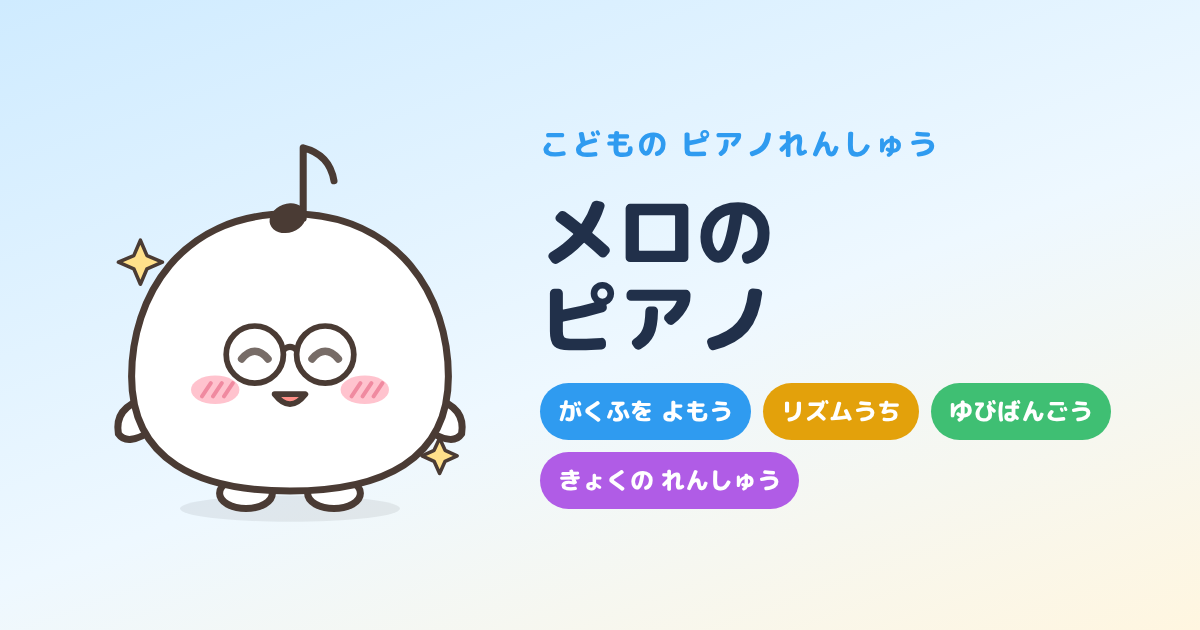
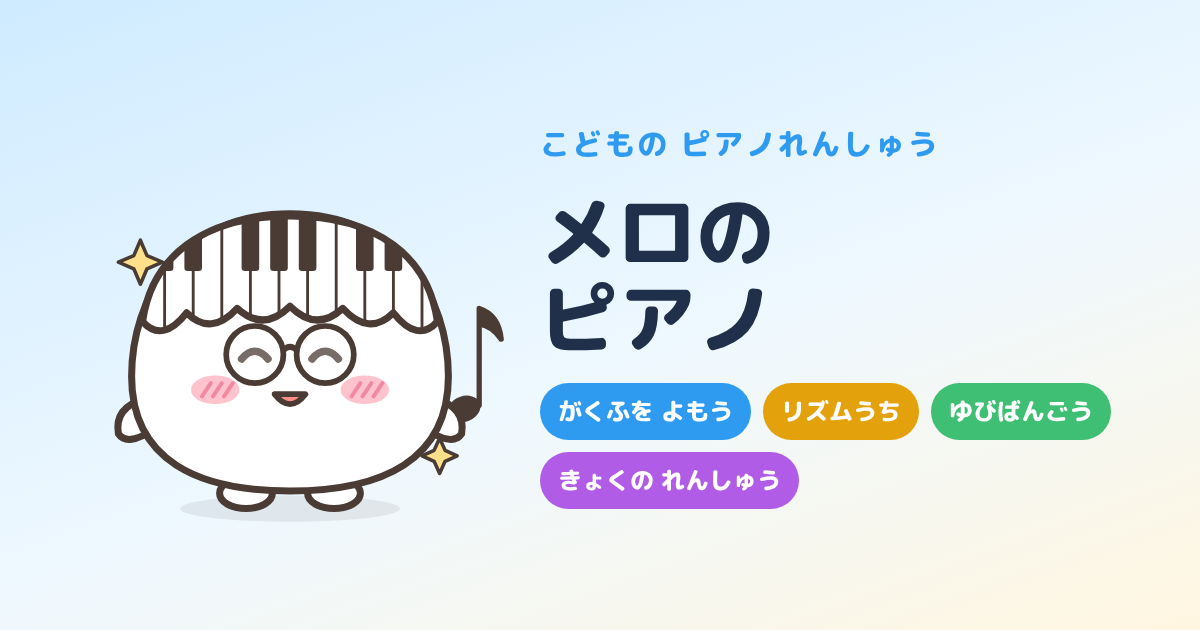
Melo: piano-keyboard hair and an eighth note held in the hand instead of the note on the head
Claude-Session: https://claude.ai/code/session_01NtSss11NbYm3PZo9HB4fJ5

Changed region(s): [[0.1233, 0.2111, 0.4317, 0.6635]]

diff --git a/dist/melo-piano.html b/dist/melo-piano.html
@@ -579,18 +579,22 @@ const MOODCOL={happy:"#FFFFFF",normal:"#FFFFFF",worried:"#FFF0E0",angry:"#FFB9B0
 function mascotSVG(m="normal",eq=P().equip){const c=MOODCOL[m],ln="#4A3B34",gl=eq.glasses&&eq.glasses!=="#21304A"?eq.glasses:ln,w=3.2;
   let g=`<svg viewBox="0 0 200 200" xmlns="http://www.w3.org/2000/svg" role="img" aria-label="メロ"><g stroke-linecap="round" stroke-linejoin="round">`;
   g+=`<ellipse cx="100" cy="188" rx="50" ry="6" fill="#0001" stroke="none"/>`;
+  // eighth note held in the right hand
+  g+=`<path d="M186 141 V97 q9 3 10 14 q-4 -6 -10 -7" fill="${ln}" stroke="${ln}" stroke-width="2.4"/><ellipse cx="179" cy="142" rx="7.6" ry="5.8" transform="rotate(-20 181 142)" fill="${ln}"/>`;
   // little feet and arms
   g+=`<ellipse cx="80" cy="181" rx="12" ry="7" fill="${c}" stroke="${ln}" stroke-width="${w}"/><ellipse cx="120" cy="181" rx="12" ry="7" fill="${c}" stroke="${ln}" stroke-width="${w}"/>`;
   g+=`<path d="M34 138 q-14 4 -12 16 q4 6 16 -2" fill="${c}" stroke="${ln}" stroke-width="${w}"/><path d="M166 138 q14 4 12 16 q-4 6 -16 -2" fill="${c}" stroke="${ln}" stroke-width="${w}"/>`;
   // mochi body
   g+=`<path d="M100 54 C150 54 172 92 172 128 C172 166 142 180 100 180 C58 180 28 166 28 128 C28 92 50 54 100 54 Z" fill="${c}" stroke="${ln}" stroke-width="${w}"/>`;
-  // hats behind the antenna
+  // keyboard hair: white keys, black keys in groups of 2 and 3, scalloped fringe
+  {const hair="M33 103 C37 74 60 55 100 55 C140 55 163 74 167 103 Q158 113 147 99 Q136 110 124 97 Q112 108 100 96 Q88 108 76 97 Q64 110 53 99 Q42 113 33 103 Z";
+   const cid="mh"+Math.random().toString(36).slice(2,8);let keys="";
+   for(let k=1;k<=10;k++){const x=30+k*13;keys+=`<line x1="${x}" x2="${x}" y1="50" y2="118" stroke="${ln}" stroke-width="1.3"/>`;if([1,1,0,1,1,1,0][(k-1)%7])keys+=`<rect x="${x-4}" y="50" width="8" height="${30}" rx="1.5" fill="${ln}" stroke="none"/>`}
+   g+=`<defs><clipPath id="${cid}"><path d="${hair}"/></clipPath></defs><g clip-path="url(#${cid})"><path d="${hair}" fill="#fff" stroke="none"/>${keys}</g><path d="${hair}" fill="none" stroke="${ln}" stroke-width="${w}"/>`}
+  // hats
   if(eq.head==="headphones")g+=`<path d="M34 120 C34 40 166 40 166 120" fill="none" stroke="#8C9BB5" stroke-width="7"/><rect x="20" y="102" width="20" height="32" rx="9" fill="#9CCBF2" stroke="${ln}" stroke-width="2.5"/><rect x="160" y="102" width="20" height="32" rx="9" fill="#9CCBF2" stroke="${ln}" stroke-width="2.5"/>`;
   if(eq.head==="cap")g+=`<path d="M52 82 C58 40 142 40 148 82 Z" fill="#9CCBF2" stroke="${ln}" stroke-width="2.5"/><path d="M122 78 q36 0 48 9 q-28 5 -52 1z" fill="#7DB6E6" stroke="${ln}" stroke-width="2.5"/>`;
   if(eq.head==="crown")g+=`<path d="M68 74 L73 42 L87 58 L100 36 L113 58 L127 42 L132 74 Z" fill="#FFE08A" stroke="${ln}" stroke-width="2.5"/><circle cx="100" cy="62" r="4" fill="#FF9AA8"/>`;
-  // music-note antenna
-  const ay=eq.head==="cap"?-12:eq.head==="crown"?-18:0;
-  g+=`<g transform="translate(0 ${ay})"><path d="M106 56 V24 q12 3 14 15" fill="none" stroke="${ln}" stroke-width="${w}"/><ellipse cx="99" cy="56" rx="8.5" ry="6.5" transform="rotate(-20 99 56)" fill="${ln}"/></g>`;
   if(eq.head==="ribbon")g+=`<path d="M140 68 l-18 -11 v22z M140 68 l18 -11 v22z" fill="#FFC2D6" stroke="${ln}" stroke-width="2.5"/><circle cx="140" cy="68" r="5" fill="#FF9DBB" stroke="${ln}" stroke-width="2"/>`;
   if(eq.head==="flower")g+=`<g transform="translate(62 72)">${[0,72,144,216,288].map(a=>`<circle cx="${(Math.cos(a*Math.PI/180)*8).toFixed(1)}" cy="${(Math.sin(a*Math.PI/180)*8).toFixed(1)}" r="6" fill="#fff" stroke="#E9A3BB" stroke-width="2"/>`).join("")}<circle r="5" fill="#FFE08A"/></g>`;
   // cheeks with little ／／ marks

diff --git a/index.html b/index.html
@@ -580,18 +580,22 @@ const MOODCOL={happy:"#FFFFFF",normal:"#FFFFFF",worried:"#FFF0E0",angry:"#FFB9B0
 function mascotSVG(m="normal",eq=P().equip){const c=MOODCOL[m],ln="#4A3B34",gl=eq.glasses&&eq.glasses!=="#21304A"?eq.glasses:ln,w=3.2;
   let g=`<svg viewBox="0 0 200 200" xmlns="http://www.w3.org/2000/svg" role="img" aria-label="メロ"><g stroke-linecap="round" stroke-linejoin="round">`;
   g+=`<ellipse cx="100" cy="188" rx="50" ry="6" fill="#0001" stroke="none"/>`;
+  // eighth note held in the right hand
+  g+=`<path d="M186 141 V97 q9 3 10 14 q-4 -6 -10 -7" fill="${ln}" stroke="${ln}" stroke-width="2.4"/><ellipse cx="179" cy="142" rx="7.6" ry="5.8" transform="rotate(-20 181 142)" fill="${ln}"/>`;
   // little feet and arms
   g+=`<ellipse cx="80" cy="181" rx="12" ry="7" fill="${c}" stroke="${ln}" stroke-width="${w}"/><ellipse cx="120" cy="181" rx="12" ry="7" fill="${c}" stroke="${ln}" stroke-width="${w}"/>`;
   g+=`<path d="M34 138 q-14 4 -12 16 q4 6 16 -2" fill="${c}" stroke="${ln}" stroke-width="${w}"/><path d="M166 138 q14 4 12 16 q-4 6 -16 -2" fill="${c}" stroke="${ln}" stroke-width="${w}"/>`;
   // mochi body
   g+=`<path d="M100 54 C150 54 172 92 172 128 C172 166 142 180 100 180 C58 180 28 166 28 128 C28 92 50 54 100 54 Z" fill="${c}" stroke="${ln}" stroke-width="${w}"/>`;
-  // hats behind the antenna
+  // keyboard hair: white keys, black keys in groups of 2 and 3, scalloped fringe
+  {const hair="M33 103 C37 74 60 55 100 55 C140 55 163 74 167 103 Q158 113 147 99 Q136 110 124 97 Q112 108 100 96 Q88 108 76 97 Q64 110 53 99 Q42 113 33 103 Z";
+   const cid="mh"+Math.random().toString(36).slice(2,8);let keys="";
+   for(let k=1;k<=10;k++){const x=30+k*13;keys+=`<line x1="${x}" x2="${x}" y1="50" y2="118" stroke="${ln}" stroke-width="1.3"/>`;if([1,1,0,1,1,1,0][(k-1)%7])keys+=`<rect x="${x-4}" y="50" width="8" height="${30}" rx="1.5" fill="${ln}" stroke="none"/>`}
+   g+=`<defs><clipPath id="${cid}"><path d="${hair}"/></clipPath></defs><g clip-path="url(#${cid})"><path d="${hair}" fill="#fff" stroke="none"/>${keys}</g><path d="${hair}" fill="none" stroke="${ln}" stroke-width="${w}"/>`}
+  // hats
   if(eq.head==="headphones")g+=`<path d="M34 120 C34 40 166 40 166 120" fill="none" stroke="#8C9BB5" stroke-width="7"/><rect x="20" y="102" width="20" height="32" rx="9" fill="#9CCBF2" stroke="${ln}" stroke-width="2.5"/><rect x="160" y="102" width="20" height="32" rx="9" fill="#9CCBF2" stroke="${ln}" stroke-width="2.5"/>`;
   if(eq.head==="cap")g+=`<path d="M52 82 C58 40 142 40 148 82 Z" fill="#9CCBF2" stroke="${ln}" stroke-width="2.5"/><path d="M122 78 q36 0 48 9 q-28 5 -52 1z" fill="#7DB6E6" stroke="${ln}" stroke-width="2.5"/>`;
   if(eq.head==="crown")g+=`<path d="M68 74 L73 42 L87 58 L100 36 L113 58 L127 42 L132 74 Z" fill="#FFE08A" stroke="${ln}" stroke-width="2.5"/><circle cx="100" cy="62" r="4" fill="#FF9AA8"/>`;
-  // music-note antenna
-  const ay=eq.head==="cap"?-12:eq.head==="crown"?-18:0;
-  g+=`<g transform="translate(0 ${ay})"><path d="M106 56 V24 q12 3 14 15" fill="none" stroke="${ln}" stroke-width="${w}"/><ellipse cx="99" cy="56" rx="8.5" ry="6.5" transform="rotate(-20 99 56)" fill="${ln}"/></g>`;
   if(eq.head==="ribbon")g+=`<path d="M140 68 l-18 -11 v22z M140 68 l18 -11 v22z" fill="#FFC2D6" stroke="${ln}" stroke-width="2.5"/><circle cx="140" cy="68" r="5" fill="#FF9DBB" stroke="${ln}" stroke-width="2"/>`;
   if(eq.head==="flower")g+=`<g transform="translate(62 72)">${[0,72,144,216,288].map(a=>`<circle cx="${(Math.cos(a*Math.PI/180)*8).toFixed(1)}" cy="${(Math.sin(a*Math.PI/180)*8).toFixed(1)}" r="6" fill="#fff" stroke="#E9A3BB" stroke-width="2"/>`).join("")}<circle r="5" fill="#FFE08A"/></g>`;
   // cheeks with little ／／ marks
